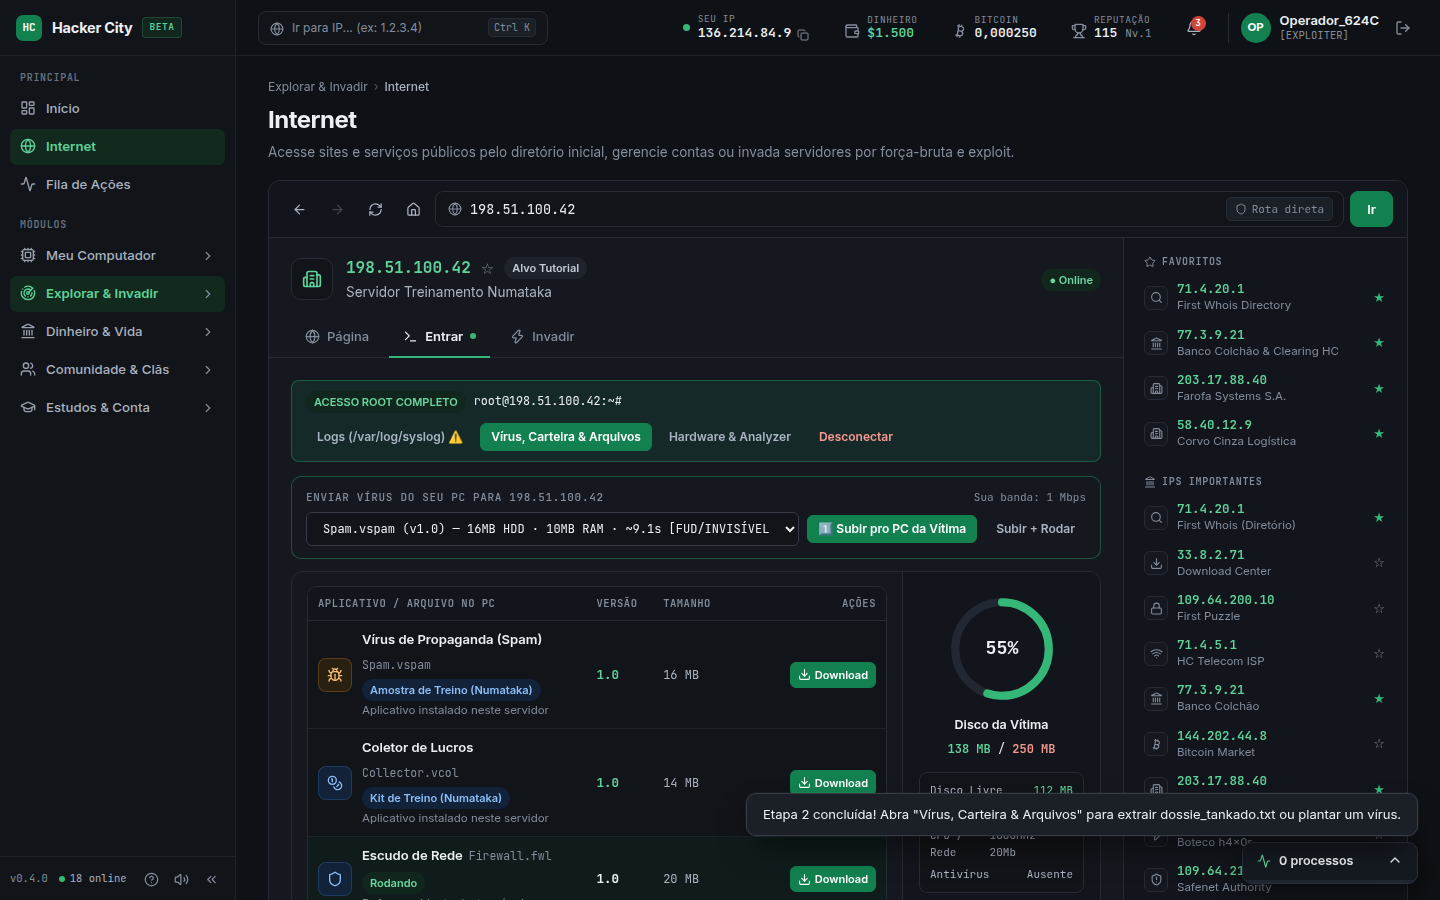
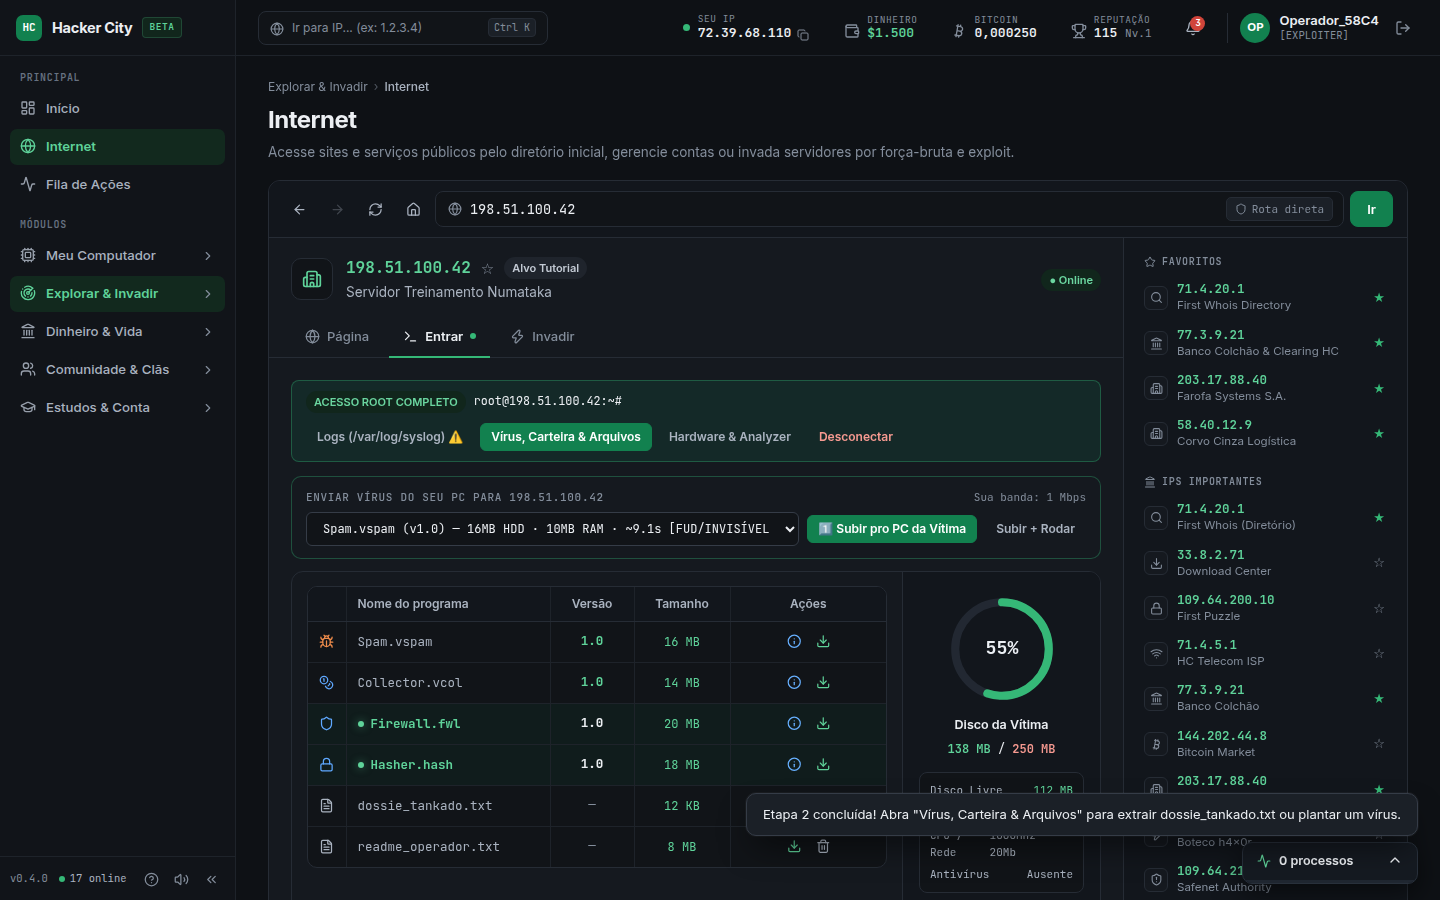
test(e2e-actions-minitab): suíte visual E2E completa de fila de ações, ícones compactos e mini-aba hover

diff --git a/scripts/test_actions_icons_minitab.js b/scripts/test_actions_icons_minitab.js
@@ -1,0 +1,219 @@
+/**
+ * Suíte E2E Visual — Ação Acontecendo (Estilo Foto 1), Tabela por Ícones Compactos (Estilo Foto 2)
+ * e Mini-Aba Flutuante no Hover (#hcHoverMiniTab) em Meu PC e no PC Invadido
+ */
+const puppeteer = require('puppeteer');
+const path = require('path');
+const fs = require('fs');
+const assert = require('assert');
+
+const OUT_DIR = path.join(__dirname, '..', 'evidencias', 'actions-minitab');
+fs.mkdirSync(OUT_DIR, { recursive: true });
+
+(async () => {
+  console.log('🚀 Iniciando Validação E2E de Fila de Ações ao Vivo, Ícones Compactos e Mini-Aba Hover...');
+  const browser = await puppeteer.launch({
+    headless: 'new',
+    defaultViewport: { width: 1440, height: 900 },
+    args: ['--no-sandbox', '--disable-setuid-sandbox']
+  });
+
+  const page = await browser.newPage();
+  const pageErrors = [];
+  page.on('pageerror', (err) => pageErrors.push(err.message));
+
+  await page.goto('http://localhost:8080/hacker-city-web/index.html', { waitUntil: 'networkidle2' });
+
+  await page.evaluate(async () => {
+    localStorage.clear();
+    localStorage.setItem('HC_DISABLE_AUTO_TOUR', '1');
+    window.DISABLE_AUTO_TOUR = true;
+    await window.enterInstantOperatorMode();
+    if (window.integrityGuard && typeof window.integrityGuard.runAuthorized === 'function') {
+      window.integrityGuard.runAuthorized(() => {
+        if (window.currentWallet) window.currentWallet.balance = 2000;
+      });
+    }
+    if (typeof window.updateHudDisplays === 'function') window.updateHudDisplays();
+  });
+  await new Promise((r) => setTimeout(r, 450));
+
+  // 1. Abrir Meus Programas e clicar na engrenagem ⚙ de Rodar o Cracker.crc -> abre Fila de Ações ao vivo (Foto 1)!
+  await page.evaluate(() => {
+    window.navTo('winSoftware');
+    window.softwareEngine.activeTab = 'inventory';
+    window.softwareEngine.renderUI();
+  });
+  await new Promise((r) => setTimeout(r, 250));
+
+  await page.click('#btnToggleInstall_cracker');
+  await new Promise((r) => setTimeout(r, 650));
+
+  const tmLiveCheck = await page.evaluate(() => {
+    const row = document.querySelector('#taskManagerMainFrame .tm-process-row');
+    const pct = row?.querySelector('.tm-bar-pct')?.textContent || '';
+    const eta = row?.querySelector('.tm-bar-eta')?.textContent || '';
+    const share = row?.querySelector('.tm-share-col')?.innerText || '';
+    const cancel = !!row?.querySelector('.tm-cancel-btn');
+    return {
+      currentWin: window.winManager?.current,
+      hasRow: !!row,
+      label: row?.querySelector('.tm-proc-label')?.innerText || '',
+      pct,
+      eta,
+      share,
+      cancel
+    };
+  });
+  console.log('Ação acontecendo (Foto 1):', tmLiveCheck);
+  assert.strictEqual(tmLiveCheck.currentWin, 'winTaskManager', 'Deve abrir Fila de Ações mostrando a ação acontecendo');
+  assert(tmLiveCheck.hasRow && tmLiveCheck.label.includes('Cracker.crc'), 'Deve mostrar barra de progresso de Cracker.crc em localhost');
+  assert(/\d+\.\d+%/.test(tmLiveCheck.pct), 'Deve exibir porcentagem decimal ex: 63.4%');
+  assert(/0h:0m:\d+s/.test(tmLiveCheck.eta), 'Deve exibir contagem regressiva ex: 0h:0m:1s');
+  assert(tmLiveCheck.cancel, 'Deve exibir botão circular vermelho de cancelar');
+
+  await page.screenshot({ path: path.join(OUT_DIR, '01_acao_acontecendo_rodando_programa.png') });
+  console.log('📸 01_acao_acontecendo_rodando_programa.png');
+
+  // 2. Aguardar término da ação -> retorna automaticamente para Programas com faixa verde "Sucesso!" e ícones limpos (Foto 2)!
+  await page.waitForFunction(
+    () => window.winManager?.current === 'winSoftware' && !!document.getElementById('softFeedbackBanner'),
+    { timeout: 6000 }
+  );
+  await new Promise((r) => setTimeout(r, 250));
+
+  const afterRunCheck = await page.evaluate(() => {
+    const banner = document.getElementById('softFeedbackBanner')?.innerText || '';
+    const crcRunning = !!window.softwareEngine.state.inventory.cracker.installed;
+    const iconBtns = document.querySelectorAll('#softwareExplorerMain .soft-table .soft-icon-act').length;
+    return { banner, crcRunning, iconBtns };
+  });
+  console.log('Retorno após ação (Foto 2):', afterRunCheck);
+  assert(afterRunCheck.banner.includes('Sucesso!'), 'Deve mostrar banner verde de Sucesso! no topo');
+  assert(afterRunCheck.crcRunning, 'Cracker.crc deve ficar marcado como rodando em 2º plano');
+  assert(afterRunCheck.iconBtns >= 24, 'Deve renderizar ícones puros de ação para todos os programas');
+
+  await page.screenshot({ path: path.join(OUT_DIR, '02_meus_programas_icones_e_sucesso.png') });
+  console.log('📸 02_meus_programas_icones_e_sucesso.png');
+
+  // 3. Passar o mouse sobre o nome/ícone do app (Cracker.crc) -> abre Mini-Aba flutuante (#hcHoverMiniTab) dizendo o nome e o que faz!
+  const crcNameTrigger = await page.$('#softwareExplorerMain tbody tr.row-running .soft-name-trigger');
+  assert(crcNameTrigger, 'Deve encontrar o gatilho de nome do programa');
+  await crcNameTrigger.hover();
+  await new Promise((r) => setTimeout(r, 180));
+
+  const appHoverTip = await page.evaluate(() => {
+    const tip = document.getElementById('hcHoverMiniTab');
+    return {
+      visible: !!(tip && tip.classList.contains('visible')),
+      title: tip?.querySelector('.mht-title')?.innerText || '',
+      desc: tip?.querySelector('.mht-desc')?.innerText || ''
+    };
+  });
+  console.log('Mini-Aba Hover no App:', appHoverTip);
+  assert(appHoverTip.visible && appHoverTip.title.includes('Quebrador de Senhas'), 'Hover no app deve abrir Mini-Aba com nome e resumo');
+
+  await page.screenshot({ path: path.join(OUT_DIR, '03_hover_mini_aba_nome_do_app.png') });
+  console.log('📸 03_hover_mini_aba_nome_do_app.png');
+
+  // 4. Passar o mouse sobre um ícone de ação (Esconder programa 👁) -> abre Mini-Aba explicando a ação!
+  const hideBtn = await page.$('#softwareExplorerMain .soft-icon-act.ic-hide');
+  assert(hideBtn, 'Deve encontrar ícone de Esconder');
+  await hideBtn.hover();
+  await new Promise((r) => setTimeout(r, 180));
+
+  const actHoverTip = await page.evaluate(() => {
+    const tip = document.getElementById('hcHoverMiniTab');
+    return {
+      visible: !!(tip && tip.classList.contains('visible')),
+      title: tip?.querySelector('.mht-title')?.innerText || '',
+      desc: tip?.querySelector('.mht-desc')?.innerText || ''
+    };
+  });
+  console.log('Mini-Aba Hover no Ícone de Ação:', actHoverTip);
+  assert(actHoverTip.visible && actHoverTip.title.includes('Esconder'), 'Hover no ícone deve abrir Mini-Aba explicando a ação');
+
+  await page.screenshot({ path: path.join(OUT_DIR, '04_hover_mini_aba_icone_acao.png') });
+  console.log('📸 04_hover_mini_aba_icone_acao.png');
+
+  // 5. Invadir 198.51.100.42, liberar amostra Spam.vspam e subir vírus p/ o outro PC -> mostra barra estilo Foto 1 ao vivo!
+  await page.evaluate(() => {
+    window.navTo('winBrowser');
+    window.softwareEngine.grantTutorialStarterSample();
+    const host = window.internetEngine.resolveHost('198.51.100.42');
+    window.internetEngine.onAttackSucceeded(host, 'password', host.rootPassword, 'root');
+    window.internetEngine.activeTab = 'entrar';
+    window.internetEngine.sshSubTab = 'files';
+    window.internetEngine.render();
+  });
+  await new Promise((r) => setTimeout(r, 250));
+
+  await page.click('#btnUploadVirusStage');
+  await new Promise((r) => setTimeout(r, 500));
+
+  const uploadBarCheck = await page.evaluate(() => {
+    const inlineRow = document.querySelector('#internetAppBody .tm-process-row');
+    return {
+      hasInlineRow: !!inlineRow,
+      text: inlineRow?.innerText || ''
+    };
+  });
+  console.log('Subindo vírus p/ outro PC:', uploadBarCheck);
+  assert(uploadBarCheck.hasInlineRow && uploadBarCheck.text.includes('Subir arquivo'), 'Subir vírus para outro PC deve exibir barra estilo Foto 1');
+
+  await page.screenshot({ path: path.join(OUT_DIR, '05_acao_subindo_virus_outro_pc.png') });
+  console.log('📸 05_acao_subindo_virus_outro_pc.png');
+
+  // Aguardar upload concluir -> clicar na engrenagem ⚙ de Rodar o vírus no PC da vítima -> mostra barra "Executar vírus..." ao vivo!
+  await page.waitForFunction(
+    () => (window.softwareEngine.getStagedVirusesOnIp('198.51.100.42') || []).length > 0,
+    { timeout: 14000 }
+  );
+  await new Promise((r) => setTimeout(r, 250));
+
+  await page.click('#remoteTargetSpecsCard .soft-icon-act.ic-run');
+  await new Promise((r) => setTimeout(r, 450));
+
+  const execVirusBarCheck = await page.evaluate(() => {
+    const inlineRow = document.querySelector('#internetAppBody .tm-process-row');
+    return {
+      hasInlineRow: !!inlineRow,
+      text: inlineRow?.innerText || ''
+    };
+  });
+  console.log('Rodando vírus no PC da vítima:', execVirusBarCheck);
+  assert(execVirusBarCheck.hasInlineRow && execVirusBarCheck.text.includes('Executar vírus'), 'Rodar vírus deve exibir barra estilo Foto 1');
+
+  await page.screenshot({ path: path.join(OUT_DIR, '06_acao_rodando_virus_outro_pc.png') });
+  console.log('📸 06_acao_rodando_virus_outro_pc.png');
+
+  // Aguardar vírus entrar em execução e passar o mouse no ícone ⬇ de Download de programa da vítima!
+  await page.waitForFunction(
+    () => (window.softwareEngine.getRemoteVirusesOnIp('198.51.100.42') || []).length > 0,
+    { timeout: 6000 }
+  );
+  await new Promise((r) => setTimeout(r, 250));
+
+  const dlBtn = await page.$('#remoteTargetSpecsCard .soft-icon-act.ic-dl');
+  assert(dlBtn, 'Deve ter ícone de Download no PC invadido');
+  await dlBtn.hover();
+  await new Promise((r) => setTimeout(r, 180));
+
+  const dlHoverCheck = await page.evaluate(() => {
+    const tip = document.getElementById('hcHoverMiniTab');
+    return {
+      visible: !!(tip && tip.classList.contains('visible')),
+      title: tip?.querySelector('.mht-title')?.innerText || '',
+      desc: tip?.querySelector('.mht-desc')?.innerText || ''
+    };
+  });
+  console.log('Mini-Aba Hover em Download no PC Invadido:', dlHoverCheck);
+  assert(dlHoverCheck.visible && dlHoverCheck.title.includes('Download'), 'Hover no ícone de Download no PC invadido deve exibir Mini-Aba');
+
+  await page.screenshot({ path: path.join(OUT_DIR, '07_pc_invadido_icones_e_hover_download.png') });
+  console.log('📸 07_pc_invadido_icones_e_hover_download.png');
+
+  assert.strictEqual(pageErrors.length, 0, 'Erros JS encontrados: ' + pageErrors.join('; '));
+  await browser.close();
+  console.log('✅ Suíte E2E de Ações ao Vivo, Ícones Compactos e Mini-Aba Hover 100% aprovada com 0 erros!');
+})();

diff --git a/src/js/task-manager-minigame-engine.js b/src/js/task-manager-minigame-engine.js
@@ -265,55 +265,9 @@
         navBadge.textContent = String(running.length);
         navBadge.style.display = running.length > 0 ? 'inline-flex' : 'none';
       }
-
-      let pill = document.getElementById('floatingProcessWidget');
-      if (!pill && document.getElementById('desktopEnvironment')) {
-        pill = document.createElement('div');
-        pill.id = 'floatingProcessWidget';
-        pill.style.cssText = 'position:fixed;right:20px;bottom:16px;z-index:850;display:none;';
-        document.body.appendChild(pill);
+      if (window.winManager && typeof window.winManager.refreshFloatingTasksPill === 'function') {
+        window.winManager.refreshFloatingTasksPill();
       }
-      if (!pill) return;
-
-      const desk = document.getElementById('desktopEnvironment');
-      const isLogged = desk && desk.style.display !== 'none';
-      if (!isLogged || running.length === 0) {
-        pill.style.display = 'none';
-        return;
-      }
-
-      pill.style.display = 'block';
-      const drawerRows = this.drawerOpen
-        ? `<div style="background:var(--hc-surface);border:1px solid var(--hc-border-strong);border-radius:10px;padding:10px 12px;margin-bottom:8px;width:360px;box-shadow:0 12px 32px rgba(0,0,0,0.5);">
-             <div style="display:flex;justify-content:space-between;align-items:center;margin-bottom:8px;">
-               <strong style="font-size:12.5px;">Ações Acontecendo (${running.length})</strong>
-               <button type="button" class="hc-btn ghost sm" style="height:24px;padding:0 8px;font-size:11.5px;" onclick="navTo('winTaskManager')">Ver Fila de Ações →</button>
-             </div>
-             ${running.slice(0, 4).map((p) => {
-               const t = this.getProcessTelemetry(p);
-               return `
-                 <div style="padding:6px 0;border-bottom:1px solid var(--hc-border);font-size:12px;">
-                   <div style="display:flex;justify-content:space-between;margin-bottom:3px;gap:8px;">
-                     <span style="white-space:nowrap;overflow:hidden;text-overflow:ellipsis;max-width:225px;">${esc(p.title)}</span>
-                     <span class="mono" style="color:var(--hc-text-2);font-size:11px;">${t.pctDecStr} · ${fmtEta(t.etaSec)}</span>
-                   </div>
-                   <div class="tm-bar-track" style="height:7px;">
-                     <div class="tm-bar-fill ${p.queueKind === 'net' ? 'is-net' : ''}" style="width:${t.pctDecStr};"></div>
-                   </div>
-                 </div>
-               `;
-             }).join('')}
-           </div>`
-        : '';
-
-      pill.innerHTML = `
-        ${drawerRows}
-        <button type="button" id="btnFloatingProcessPill" onclick="window.taskManager.drawerOpen=!window.taskManager.drawerOpen;window.taskManager.syncWidgets();" style="margin-left:auto;display:flex;align-items:center;gap:9px;background:var(--hc-surface-2);border:1px solid rgba(53,184,119,0.45);color:var(--hc-text);padding:8px 14px;border-radius:999px;cursor:pointer;font-size:12.5px;font-weight:600;box-shadow:0 6px 20px rgba(0,0,0,0.4);">
-          <span style="width:8px;height:8px;border-radius:50%;background:var(--hc-accent);display:inline-block;"></span>
-          <span>${running.length} processo${running.length === 1 ? '' : 's'}</span>
-          <span style="color:var(--hc-text-3);font-size:11.5px;">${this.drawerOpen ? '▾' : '▴'}</span>
-        </button>
-      `;
     }
 
     renderRunningSoftwareTabHtml() {

diff --git a/scripts/test_software_minipc_cards.js b/scripts/test_software_minipc_cards.js
@@ -47,23 +47,23 @@ fs.mkdirSync(OUT_DIR, { recursive: true });
   await new Promise((r) => setTimeout(r, 350));
 
   const softCheck = await page.evaluate(() => {
+    const root = document.getElementById('softwareExplorerMain');
     const rows = document.querySelectorAll('#softwareExplorerMain .soft-table tbody tr');
     const donut = document.querySelector('#softwareExplorerMain .soft-donut-svg');
-    const txt = document.getElementById('softwareExplorerMain')?.innerText || '';
     return {
       rowsCount: rows.length,
       hasDonut: !!donut,
-      hasEsconder: txt.includes('Esconder'),
-      hasMover: txt.includes('Mover'),
-      hasApagar: txt.includes('Apagar'),
-      hasRodar: txt.includes('Rodar'),
+      hasEsconder: !!root?.querySelector('.soft-icon-act[data-tip-title*="Esconder"]'),
+      hasMover: !!root?.querySelector('.soft-icon-act[data-tip-title*="Mover"]'),
+      hasApagar: !!root?.querySelector('.soft-icon-act[data-tip-title*="Excluir"]'),
+      hasRodar: !!root?.querySelector('.soft-icon-act[data-tip-title*="Rodar"]'),
       crackerVer: window.softwareEngine.getSoftwareVersion('cracker')
     };
   });
   console.log('Meus Programas:', softCheck);
   assert(softCheck.rowsCount >= 6, 'Deve listar programas iniciais no disco');
   assert(softCheck.hasDonut, 'Deve exibir gráfico circular de Uso do Disco');
-  assert(softCheck.hasEsconder && softCheck.hasMover && softCheck.hasApagar && softCheck.hasRodar, 'Deve ter botões Rodar, Esconder, Mover e Apagar');
+  assert(softCheck.hasEsconder && softCheck.hasMover && softCheck.hasApagar && softCheck.hasRodar, 'Deve ter ícones compactos Rodar, Esconder, Mover e Excluir');
   assert.strictEqual(softCheck.crackerVer, 1.0, 'Cracker v1.0 deve estar disponível sob demanda sem precisar ligar na RAM');
 
   await page.screenshot({ path: path.join(OUT_DIR, '01_meus_programas_estilo_limpo.png') });
@@ -168,13 +168,13 @@ fs.mkdirSync(OUT_DIR, { recursive: true });
   await new Promise((r) => setTimeout(r, 300));
 
   const remoteSoftCheck = await page.evaluate(() => {
-    const txt = document.getElementById('remoteTargetSpecsCard')?.innerText || '';
+    const root = document.getElementById('remoteTargetSpecsCard');
     return {
-      hasDownloadBtn: txt.includes('Download'),
+      hasDownloadBtn: !!root?.querySelector('.soft-icon-act[data-tip-title*="Download"]'),
       hasDonut: !!document.querySelector('#remoteTargetSpecsCard .soft-donut-svg')
     };
   });
-  assert(remoteSoftCheck.hasDownloadBtn && remoteSoftCheck.hasDonut, 'PC invadido deve exibir tabela de programas com botão Download e Donut de disco');
+  assert(remoteSoftCheck.hasDownloadBtn && remoteSoftCheck.hasDonut, 'PC invadido deve exibir tabela de programas com ícone de Download e Donut de disco');
 
   await page.screenshot({ path: path.join(OUT_DIR, '06_pc_invadido_programas_e_download.png') });
   console.log('📸 06_pc_invadido_programas_e_download.png');

diff --git a/src/js/window-manager.js b/src/js/window-manager.js
@@ -125,25 +125,19 @@ class WindowManager {
     const bar = document.getElementById('hcFloatingTasksBar');
     if (!pill || !txt || !bar) return;
 
-    const tme = window.taskManagerEngine;
-    const list = (tme && Array.isArray(tme.tasks)) ? tme.tasks : [];
-    const count = list.length;
+    const running = (window.taskManager && typeof window.taskManager.getRunningAll === 'function')
+      ? window.taskManager.getRunningAll()
+      : [];
+    const count = running.length;
 
     txt.textContent = count === 1 ? '1 processo' : `${count} processos`;
     if (count === 0) {
       bar.style.width = '0%';
     } else {
       let sum = 0;
-      const now = Date.now();
-      list.forEach((t) => {
-        if (typeof t.progress === 'number') {
-          sum += Math.min(100, Math.max(0, t.progress));
-        } else if (t.startedAt && t.durationMs) {
-          const pct = ((now - t.startedAt) / Math.max(1, t.durationMs)) * 100;
-          sum += Math.min(100, Math.max(5, pct));
-        } else {
-          sum += 45;
-        }
+      running.forEach((p) => {
+        const pct = (Number(p.workDone || 0) / Math.max(0.1, Number(p.workTotal || 1))) * 100;
+        sum += Math.min(99.9, Math.max(1, pct));
       });
       bar.style.width = `${Math.round(sum / count)}%`;
     }
